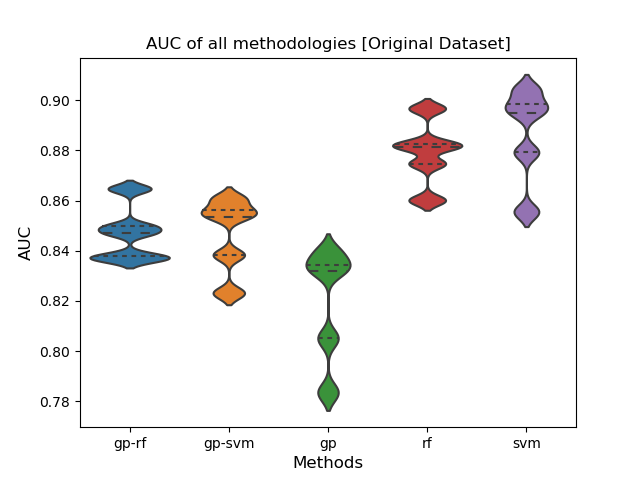
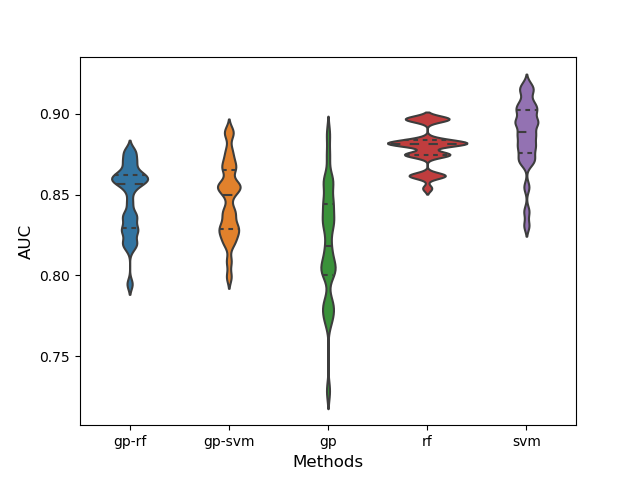
violin plot update

diff --git a/src/violinplot.py b/src/violinplot.py
@@ -16,6 +16,7 @@ import seaborn as sns
 import pandas as pd
 import numpy as np
 import glob
+import csv
 import os
 import re
 # ---------------------------------------------------------------------------- #\
@@ -32,21 +33,18 @@ for root, dirs, files in os.walk(cwd + "/results/images/TrimmedDataset", topdown
                 mean_AUC = []
                 filename = os.path.join(root,name)
                 base.append(os.path.splitext(os.path.basename(filename))[0])
-                aucs = pd.read_csv(filename)
-                mean_AUC.append(np.mean(aucs['AUC1']))
-                mean_AUC.append(np.mean(aucs['AUC2']))
-                mean_AUC.append(np.mean(aucs['AUC3']))
-                mean_AUC.append(np.mean(aucs['AUC4']))
-                mean_AUC.append(np.mean(aucs['AUC5']))
+                #aucs = csv.read_csv(filename)
+                with open(filename, newline = '') as f:
+                    reader = csv.reader(f)
+                    next(reader)
+                    for row in reader:
+                        for l in range(len(row)-1):
+                            mean_AUC.append(row[l+1])
                 df[header] = mean_AUC
 
 labels = {'gp-rf', 'gp-svm', 'gp', 'rf', 'svm'}
-#df = pd.melt(df, value_vars=['gp-rf', 'gp-svm', 'gp', 'rf', 'svm'])
-print(df)
-#ax.Axes.violinplot(mean_AUC, showmeans = True, showmedians = True)
 sns.violinplot(data = df, inner="quartile", bw=.15, fontsize = 12)
 plt.xlabel('Methods', fontsize = 12)
 plt.ylabel('AUC', fontsize = 12)
-plt.title('AUC of all methodologies [Trimmed Dataset]', fontsize = 12)
 plt.show()
 
